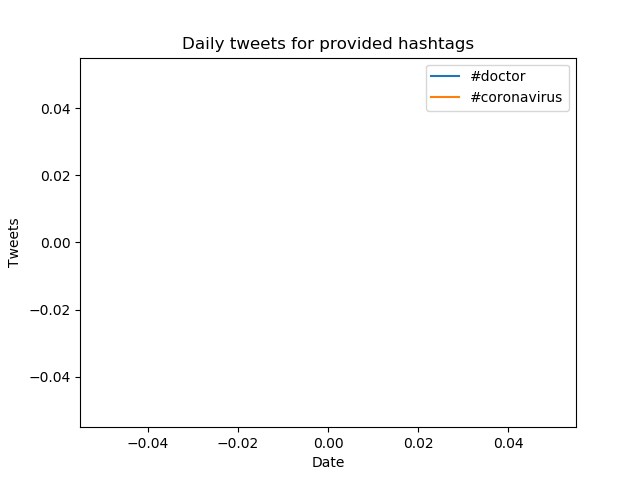
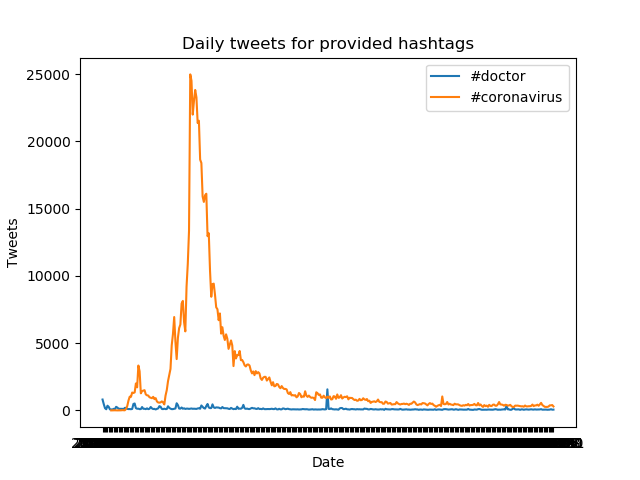
Added alternative_reduce.py

diff --git a/src/alternative_reduce.py b/src/alternative_reduce.py
@@ -1,0 +1,50 @@
+#!/usr/bin/env python3
+
+# command line args
+import argparse
+parser = argparse.ArgumentParser()
+parser.add_argument('--hashtags',nargs='+',required=True)
+args = parser.parse_args()
+
+# imports
+import os
+import json
+import glob
+import matplotlib
+matplotlib.use('Agg')
+import matplotlib.pyplot as plt
+from collections import Counter,defaultdict
+
+total = {}
+file_pat = "/home/elaa2020/bigdata/hw/hw2/twitter_coronavirus/outputs/geoTwitter20-*.lang"
+files = glob.glob(file_pat)
+for file in files:
+    with open(file) as f:
+        date = os.path.basename(file)[10:18]
+        tmp = json.load(f)
+        for hsh in args.hashtags:
+            if hsh in tmp:
+                for language in tmp[hsh]:
+                    if (date, hsh) not in total:
+                        total[(date, hsh)] = 0
+                    
+                    total[(date, hsh)] += tmp[hsh][language]
+
+total = dict(sorted(total.items(), key = lambda key: key[0]))
+for hsh in args.hashtags:
+    dates = []
+    counts = []
+
+    for k in total:
+        if k[1] == hsh:
+            dates.append(k[0])
+            counts.append(total[k])
+
+    plt.plot(dates, counts, label=hsh)
+
+plt.xlabel('Date')
+plt.ylabel('Tweets')
+plt.title('Daily tweets for provided hashtags')
+plt.legend()
+
+plt.savefig(f'line_graph_{args.hashtags}.png')
